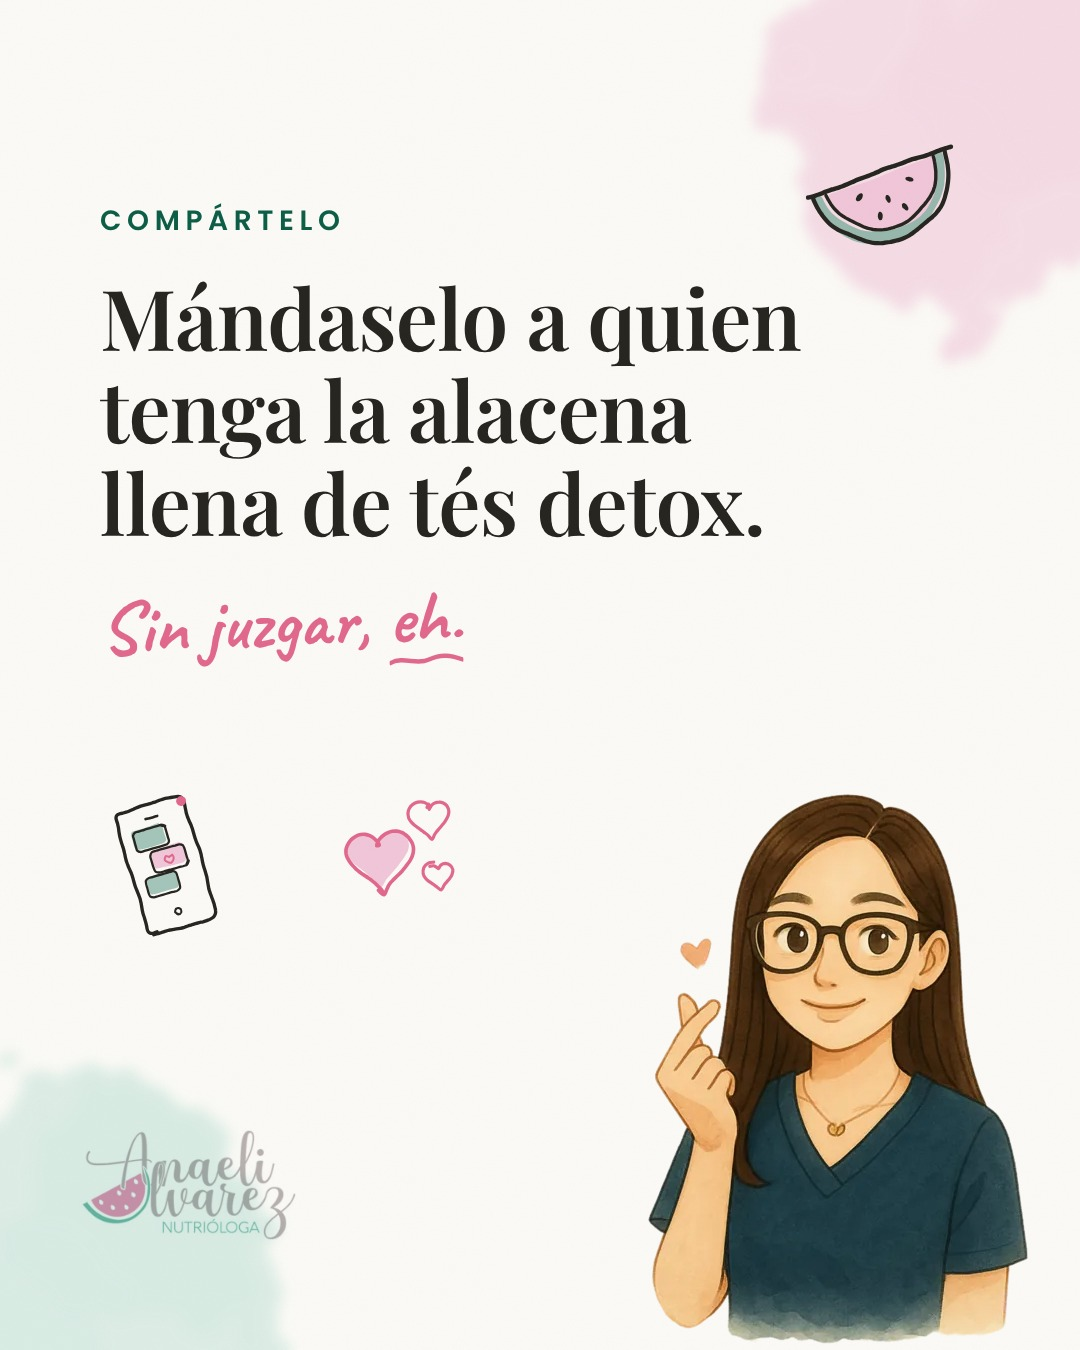
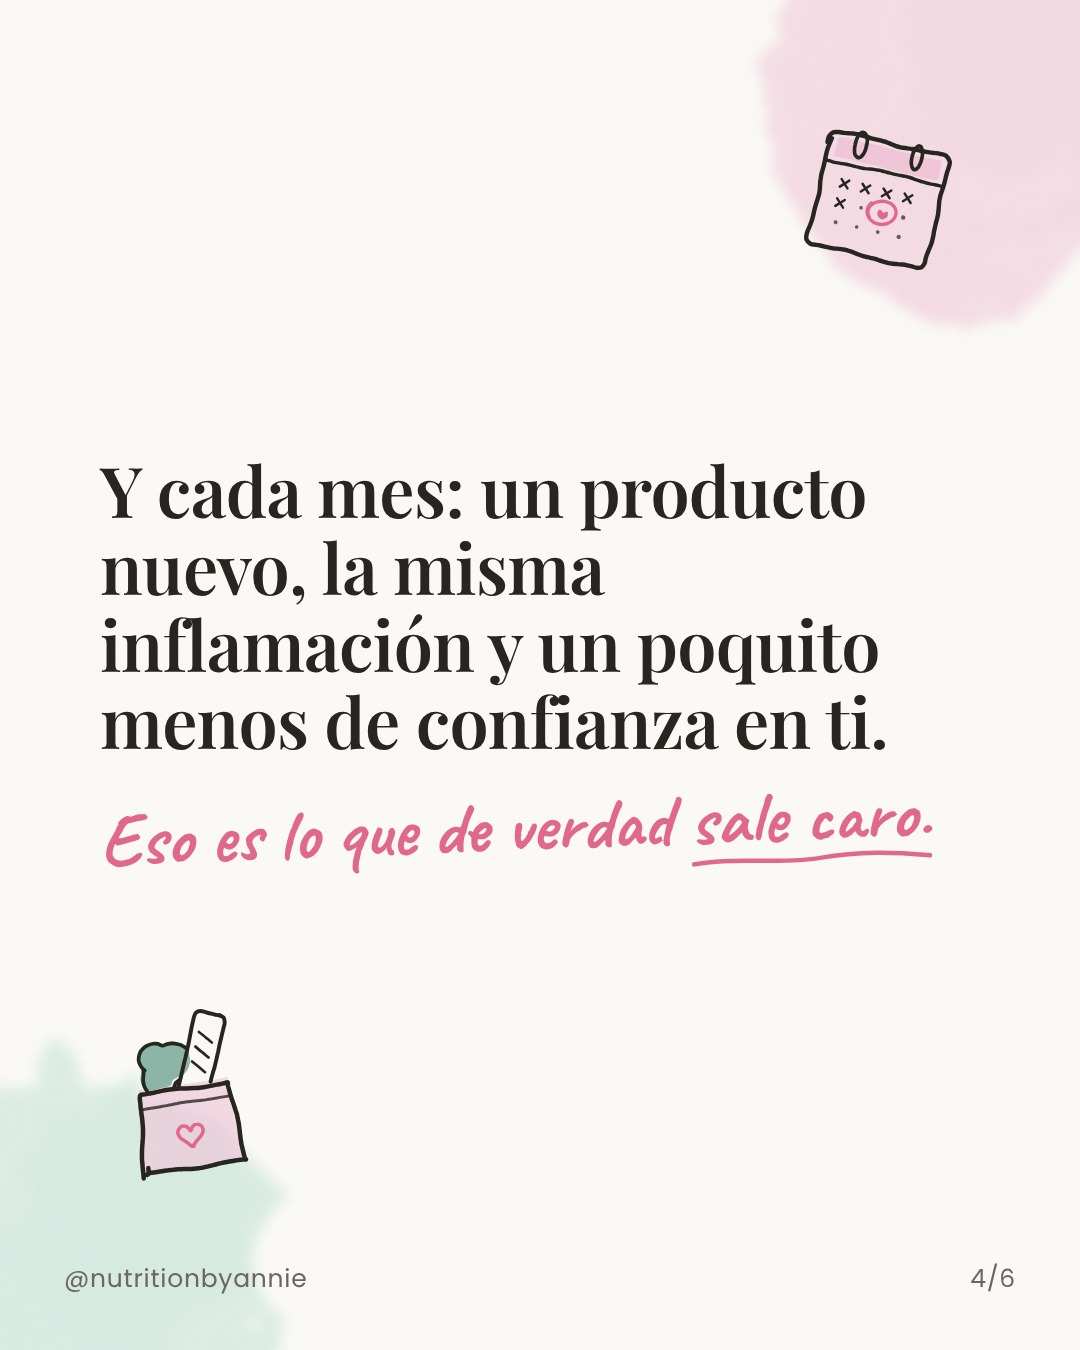
Pieza 5: de 4 a 6 cards, dos cards nuevas antes del CTA (problema real + reframe)
Claude-Session: https://claude.ai/code/session_01DByefQSamqWN3RZdnTrbT1

diff --git a/sistema/build_specs.py b/sistema/build_specs.py
@@ -122,7 +122,7 @@ Nutrición clínica · CDMX y online
 #nutriologacdmx #nutricionclinica #nutricionpersonalizada #dietasquenofuncionan #resistenciaalainsulina"""))
 
 # ---------- 5 · Mar 13 oct 13:30 · Atracción E · El detox más caro ----------
-P.append(dict(n=5, slug="p05-el-detox-mas-caro", title="El detox más caro", pillar="Atracción", arc="E · Frase compartible (4 cards)",
+P.append(dict(n=5, slug="p05-el-detox-mas-caro", title="El detox más caro", pillar="Atracción", arc="E · Frase compartible (6 cards)",
   at="2026-10-13T13:30:00-06:00", cta_type="Compartir",
   cards=[
     {"type":"hook","title":"El detox más caro es el que compras cada&nbsp;mes…","whisper":"[[u]]porque el anterior no funcionó.[[/u]]","swipe":"desliza →",
@@ -133,6 +133,12 @@ P.append(dict(n=5, slug="p05-el-detox-mas-caro", title="El detox más caro", pil
     {"type":"statement","title":"Es que ninguno empezó por <span class=\"mark\">entender tu cuerpo.</span>","size":78,
      "whisper":"Tu tiroides, tu insulina, cómo comes un martes real.",
      "stains":st('menta','tl','br'),"doodles":[d('estetoscopio',TR,200,8),d('plato',BL,180,-8)]},
+    {"type":"statement","title":"Y cada mes: un producto nuevo, la misma inflamación y un poquito menos de confianza en ti.","size":70,
+     "whisper":"Eso es lo que de verdad [[u]]sale caro.[[/u]]",
+     "stains":st('rosa','tr','bl'),"doodles":[d('calendario',TR,180,8,dy=5),d('bolsa-super',BL,190,-6)]},
+    {"type":"statement","title":"Tu cuerpo no necesita <span class=\"mark\">que lo limpies.</span>","size":80,
+     "whisper":"Entonces lo que necesita es que alguien lo revise contigo, [[u]]sin venderte el siguiente frasco.[[/u]]",
+     "stains":st('menta','tl','br'),"doodles":[d('corazon',TR,160,8,dy=10),d('hojita',BL,170,-8)]},
     cta("Compártelo","Mándaselo a quien tenga la alacena llena de tés detox.","Sin juzgar, [[u]]eh.[[/u]]",
         [d('celular',(90,790),150,-10),d('corazones-mini',(320,760),160,-6),d('sandia',TR,190,-8)], first='rosa'),
   ],
@@ -140,7 +146,9 @@ P.append(dict(n=5, slug="p05-el-detox-mas-caro", title="El detox más caro", pil
 
 Tés, malteadas, gomitas, pastillas “desinflamatorias”. Si ninguno funcionó, no es que no hayas encontrado el bueno. Es que ninguno empezó por entender tu cuerpo: tu tiroides, tu insulina, cómo comes un martes real.
 
-Antes de gastar en el siguiente, revisa lo que de verdad está pasando.
+Y cada mes es lo mismo: un producto nuevo, la misma inflamación y un poquito menos de confianza en ti. Eso es lo que de verdad sale caro.
+
+Tu cuerpo no necesita que lo limpies. Necesita que alguien lo revise contigo, sin venderte el siguiente frasco.
 
 Mándaselo a quien tenga la alacena llena de tés detox. Sin juzgar, eh 💌
 
